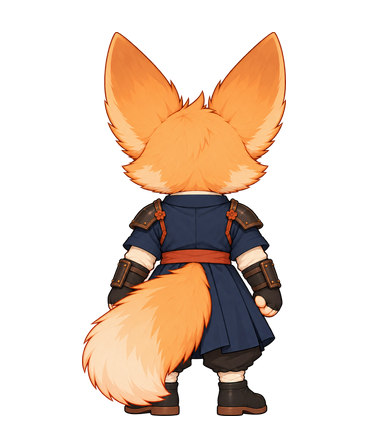
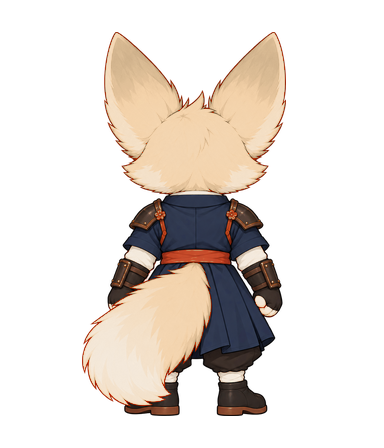
Cream fur, iron fan, and hero/golem sizes matched to the art
Camera view 624x300, hero hitbox 24x36, golem scale 0.34 with attack
range 210, hero swing box 52x44. Hero refs recolored to cream fur.

Claude-Session: https://claude.ai/code/session_017LxjDzct9tGqVeMxDGUx8y

diff --git a/docs/plan/HERO_SPEC.md b/docs/plan/HERO_SPEC.md
@@ -3,14 +3,15 @@
 2026-10-09 사용자 결정: 주인공은 **new-game 저장소에서 잡아 둔 사막여우 전투형 문관(철릭)**. 작업 방식은 "Claude가 아이디어·구조 설계 → ChatGPT가 이미지 제작".
 
 - 기준 그림: `docs/plan/hero_refs/side.png`, `front.png`, `back.png` (new-game `codex/fennec-idle-sample-v1` 브랜치 `game/fennec_idle/`, 각 384×448 투명 PNG, 발 기준점 약 (190, 416)). 당시 상태는 "시안 시험 승인"이고 최종 디자인 승인은 아님.
-- 잘못 가져왔던 game2의 크림색 판타지 관복 시트는 기준이 아니다(2026-10-09 사용자 정정).
+- 잘못 가져왔던 game2의 크림색 판타지 관복 시트는 기준이 아니다(2026-10-09 사용자 정정). 다만 **털색만** game2 여우의 크림색을 쓴다(같은 날 사용자 결정: 주황은 너무 쨍함). `hero_refs/`의 세 장은 털만 크림색으로 바꾼 것이고, 주황 원본은 new-game 브랜치에 그대로 있다.
+- **디자인은 확정이 아니다.** 사용자와 같이 맞춰 간다. 바꿀 때마다 이 문서와 비교 페이지를 갱신한다.
 - 비교 페이지(실제 화면 크기, 카메라·골렘 크기 바꿔 보기): https://claude.ai/artifact/5KBz3NkyGcp3mf3GaYupcd
 
 ## 1. 생김새 (기준 그림 그대로)
 
 | 부위 | 내용 |
 |---|---|
-| 털 | 주황, 가슴·주둥이·귀 안쪽·꼬리 끝은 크림 |
+| 털 | 크림(약 #ecd9bd), 가슴·주둥이·귀 안쪽·꼬리 끝은 더 밝은 미색. 외곽선은 따뜻한 갈색 |
 | 얼굴 | 갈색 눈(밝은 하이라이트), 짧은 목, 귀 제외 약 3등신 |
 | 귀 | 아주 큼. 가장 높은 실루엣 |
 | 옷 | 남색 철릭(앞섶 겹침), 크림색 깃, 녹슨 주홍 허리띠(매듭 끝이 늘어짐) |
@@ -18,16 +19,21 @@
 | 아래 | 검은 바지, 흰 행전, 검은 가죽 신 |
 | 꼬리 | 하나, 크고 풍성함. 뿌리는 허리띠 아래 등 중앙 |
 
-## 2. 크기 문제 (사용자 피드백: "둘 사이즈가 너무 차이 나고 안 보인다")
+## 2. 크기와 판정 (2026-10-09 적용)
 
-지금 수치(카메라 세로 384, 판정 20×28, 골렘 배율 0.42)로 720p 화면에 세우면 주인공은 귀까지 약 83px(화면 높이 11%), 골렘은 약 530px(73%)로 **6배 넘게** 차이 난다(비교 페이지 측정, 골렘 다리는 곧게 세운 근사).
+예전 수치(카메라 세로 384, 판정 20×28, 골렘 0.42)로는 720p 화면에서 주인공이 귀까지 약 83px, 골렘이 약 400px 이상이라 작고 차이가 컸다. 사용자가 비교 페이지에서 고른 조합을 실제 수치로 옮겼다.
 
-손볼 수 있는 손잡이 세 개:
-1. **카메라 당기기** (`camera_view_height` 384 → 300 등): 둘 다 커짐. 대신 점프 방에서 앞이 덜 보임.
-2. **골렘 줄이기** (`golem_scale` 0.42 → 0.34 등): 차이가 줄어듦. 골렘의 공격 판정 위치도 함께 줄어드니 골렘 수치 재확인 필요.
-3. **주인공 그림만 키우기** (판정은 그대로, 그림 1.3배): 손맛·방 설계 영향 없음. 맞는 범위보다 그림이 커 보이는 게 단점.
+| 항목 | 예전 | 지금 | 파일 |
+|---|---|---|---|
+| 카메라 보이는 범위 | 800×384 | 624×300 (1.28배 가까이) | `movement_tuning.json` |
+| 주인공 판정 | 20×28 | 24×36 | `movement_tuning.json` |
+| 골렘 배율 | 0.42 | 0.34 (키 약 170px, 5.3칸) | `golem_bash_tuning.json` |
+| 골렘 공격 시작 거리 | 260 | 210 (몸이 작아진 만큼) | `golem_bash_tuning.json` |
+| 주인공 공격 범위 | 44×36 | 52×44 (몸이 커진 만큼) | `golem_bash_tuning.json` |
 
-조합은 사용자가 비교 페이지에서 고르고, 정해지면 Claude가 수치로 옮긴다.
+- 판정은 **그림의 몸(정수리~발바닥)** 에 맞춘다. 귀와 꼬리는 맞지 않는 장식이다. 그림을 붙일 때 정수리를 판정 윗변에, 발바닥을 아랫변에 맞춘다(side.png 기준 정수리 y≈156, 발바닥 y=416, 몸 260px → 판정 36이면 배율 약 0.138).
+- 점프 높이·대시 거리·벽 점프는 그대로다. 판정이 8px 커져도 방 8개 모두 1칸짜리 세로 틈이 없어서 막히는 곳이 없고, 경로 검사도 그대로 통과한다.
+- 720p 화면 기준 주인공 약 128px(귀 포함), 골렘 약 408px, 키 차이 약 3.2배. 점프 방에서 가로로 보이는 범위는 약 21칸에서 17칸으로 준다.
 
 ## 3. 게임용 기능 (코드로 처리)
 
@@ -35,9 +41,16 @@
 - 귀·꼬리·철릭 자락·허리띠 매듭은 **코드가 흔든다**(속도 반대 방향으로 늘어짐). 그림은 정지 부품만 있으면 된다.
 - 대시 무적 표시는 몸 외곽 빛, 피격 깜빡임은 지금 그대로.
 
-## 4. 무기
+## 4. 무기 — 철부채 (2026-10-09 사용자 선택)
 
-지금 게임은 J로 근접 휘두르기(옆·위·아래 내려찍기). 기준 그림은 맨손이다. 기본값은 **짧은 환도**, 대안은 **철 부채** 또는 new-game처럼 **맨손 마력 충격**(칼 없이 손에서 문양·충격). 사용자 선택 대기, 정하기 전까지 환도.
+문관이 들고 다니는 쇠 부채(철선). 칼 대신 부채라서 문관 설정과 맞고, 접고 펴는 두 모양으로 동작을 나눌 수 있다.
+
+- **모양:** 검은 쇠 부챗살 10~12개, 사슬 없이 굵은 사북(고정 못)은 놋쇠색, 부채면은 짙은 남색 비단에 크림색 구름 문양 하나. 손잡이 끝에 허리띠와 같은 녹슨 주홍 술.
+- **J 옆 휘두르기:** 접은 부채로 가로 베기. 휘두르는 끝에 반쯤 펴진 부채꼴 잔상.
+- **위 휘두르기:** 머리 위로 활짝 펴며 반원을 그린다.
+- **아래 내려찍기(포고):** 접은 부채 끝으로 내려찍는다. 튕길 때 잠깐 펴서 받친다.
+- 판정은 지금 휘두르기 상자(52×44) 그대로. 그림이 판정을 따라가고, 판정이 그림을 따라가지 않는다.
+- 다른 후보(환도, 맨손 마력)는 보류.
 
 ## 5. 제작 방식
 
@@ -52,9 +65,9 @@ new-game·game2 모두 GPT로 방향·프레임을 한 장씩 뽑을 때 꼬리 
 첨부: `side.png`
 
 ```
-Create a cutout animation parts sheet of exactly this fennec fox character: same face, orange fur, cream chest and tail tip, huge ears, navy cheollik coat with cream collar, rust-orange sash, small black leather shoulder pads and bracers, black trousers, white leg wraps, black leather shoes. Same painterly style, outline, colors and scale as the attached image. Strict side view facing right.
+Create a cutout animation parts sheet of exactly this fennec fox character: same face, pale cream fur (around #ecd9bd) with lighter off-white chest, muzzle and tail tip, huge ears, navy cheollik coat with cream collar, rust-orange sash, small black leather shoulder pads and bracers, black trousers, white leg wraps, black leather shoes. Same painterly style, outline, colors and scale as the attached image. Strict side view facing right.
 Every part separated with empty space around it, transparent background, no overlaps, no shadows, no text except small gray part numbers.
-Parts: 1 head without ears (eye open), 2 near ear, 3 far ear (slightly darker), 4 torso with coat top, collar and sash (no arms, no skirt flaps), 5 coat skirt hanging straight as one piece, 6 sash knot tails, 7 near upper arm with shoulder pad, 8 near forearm with bracer, 9 near paw (open), 10 far upper arm, 11 far forearm, 12 far paw, 13 near thigh, 14 near shin with leg wrap and shoe, 15 far thigh, 16 far shin with shoe, 17 tail as one piece pointing straight back, 18 short Korean sword (hwando) horizontal.
+Parts: 1 head without ears (eye open), 2 near ear, 3 far ear (slightly darker), 4 torso with coat top, collar and sash (no arms, no skirt flaps), 5 coat skirt hanging straight as one piece, 6 sash knot tails, 7 near upper arm with shoulder pad, 8 near forearm with bracer, 9 near paw (open), 10 far upper arm, 11 far forearm, 12 far paw, 13 near thigh, 14 near shin with leg wrap and shoe, 15 far thigh, 16 far shin with shoe, 17 tail as one piece pointing straight back, 18 closed Korean iron war fan (cheolseon) horizontal: black iron ribs, brass pivot rivet, small rust-orange tassel at the handle end, 19 the same iron fan fully opened as a half circle: dark navy silk face with one cream cloud motif, black iron ribs.
 Limb parts need rounded joint ends so they can rotate at the joint. Keep one consistent pixel scale across all parts.
 ```
 
@@ -62,6 +75,6 @@ Limb parts need rounded joint ends so they can rotate at the joint. Keep one con
 
 ## 6. 사람이 정할 것
 
-- 크기 조합 (비교 페이지): 카메라 / 골렘 크기 / 주인공 그림 배율
-- 무기: 환도(기본) / 철 부채 / 맨손 마력
+- 크림색 털 톤이 괜찮은지 (더 노랗게, 더 하얗게)
+- 철부채 모양(색, 문양, 술)
 - 임시로 `side.png`를 먼저 게임에 붙일지(추천)

diff --git a/HANDOFF.md b/HANDOFF.md
@@ -25,7 +25,7 @@
 - 한 판(`toys/run/`, 실행 `RunOneRun.command`/`RunOneRun.cmd`): 2026-10-09 사용자 결정 "한 판으로 합치기"로 Claude 구현. `run.json`의 점프 방(기본 01·05·06)을 지나면 골렘 방, 골렘 사망은 골렘부터 재시작. 이동 수치는 사용자 결정으로 점프맵·보스방 중간값 하나로 통일(`movement_tuning.json` 변경, 대시 후 속도 65%), 그에 맞춰 5·7번 방 수정. `docs/RUN_REPORT.md`.
 - 골렘 튕기기 장난감(`toys/golem_bash/`, 실행 `RunGolemBash.command`/`RunGolemBash.cmd`): 2026-10-09 Claude 구현, 같은 날 사용자 1차 플레이 피드백 7개 반영(약점을 어깨 위 결정으로 옮김·자동 조준·상황 안내, 피격 무적 1.2초와 깜빡임, 몸 닿음 0.25초 유예, 대시 무적, 쿵쿵 걷기, 앞으로 쓰러지는 무릎 자세, 멈칫·파편·숫자). 약점은 튕긴 직후 2초와 쓰러졌을 때만 열림. 자동 검사 통과, 무적 OFF 봇은 여전히 승리 못 함, 2차 판정에서 이동이 보스전엔 과하다고 해서 보스전 전용 이동 수치(느리고 무겁게, 공중 대시 2회 유지, 대시 후 속도 30%)와 포고 320, 팔 흔들림 축소. 3차 사람 판정 전. `docs/GOLEM_BASH_REPORT.md`.
 - 효과음(2026-10-09, Claude): 자체 합성 25개를 한 판 전체(점프 방·골렘)에 연결. 음량 조절은 `autoload/Sfx.gd`의 `MIX`. 사람 귀 판정 전. `docs/SFX_REPORT.md`.
-- 주인공(2026-10-09 사용자 결정): new-game(`codex/fennec-idle-sample-v1`)의 사막여우 전투형 문관(주황 털, 남색 철릭). Claude가 설계, ChatGPT가 이미지 제작, 골렘처럼 부품(컷아웃) 리그. 사용자 지적: 골렘 대비 너무 작다 → 카메라·골렘 크기·그림 배율 조합 선택 대기. `docs/plan/HERO_SPEC.md`.
+- 주인공(2026-10-09 사용자 결정): new-game(`codex/fennec-idle-sample-v1`)의 사막여우 전투형 문관(남색 철릭), 털만 game2 여우의 크림색으로 바꿈. 디자인은 확정 아님, 사용자와 같이 맞춰 감. Claude가 설계, ChatGPT가 이미지 제작, 골렘처럼 부품(컷아웃) 리그. 크기 적용됨: 카메라 624×300, 판정 24×36(그림의 몸에 맞춤), 골렘 0.34, 골렘 공격 시작 210, 주인공 공격 52×44. 무기는 철부채. `docs/plan/HERO_SPEC.md`.
 - 스토리·UI·아트 확장은 보류.
 
 - 2026-10-09 최신 수정: 공중 두 번째 대시는 새 입력 방향으로 즉시 발동. 방향키와 Shift 입력 순서 차이를 0.06초 방향 입력 유예로 처리. 사용자 실플레이에서 작동 확인 후 tt 업로드 요청. 입력 주입 225검사, 기존 회귀 15개 모음 통과. 상세: `docs/MOVEMENT_INPUT_AUDIT.md`.
@@ -35,7 +35,7 @@
 1. 완료(2026-10-09): 새 방 5~8 사용자 플레이 판정 "나름 재밌었다". 5·8 굴뚝(벽 점프 없이 통과)·8 탄환 방(탄환 없이 통과) 우회는 남아 있음. 사용자가 불편을 말하면 Claude가 재설계하고 Codex가 경로 테스트를 고친다.
 2. 사용자: 골렘 튕기기 장난감 2차 플레이 판정(피드백 반영본, PR #2). "시키지 않았는데 다시 붙고 싶은가", 기존 골렘전과 비교. 약점 열림 규칙과 난이도(창 길이) 의견. 구현 완료(Claude), `docs/GOLEM_BASH_REPORT.md`.
 3. 사용자: 효과음 귀 판정(너무 큰/작은/거슬리는 소리, 빠진 순간). 말하면 Claude가 `MIX` 숫자나 `make_sfx.py` 합성식을 고친다.
-4. 주인공: 크기 조합·무기 선택 → `side.png` 임시 부착으로 플레이 확인 → GPT 부품 시트(HERO_SPEC 프롬프트 B) → 리그.
+4. 주인공: 새 크기로 사용자 플레이 확인 → `side.png` 임시 부착(정수리=판정 윗변) → GPT 부품 시트(HERO_SPEC 프롬프트 B, 철부채 포함) → 리그.
 5. 둘 다 통과하면: 움직임 + 보스를 묶은 짧은 구간(방 몇 개 + 보스 하나)으로 다음 관문 설계.
 
 ## 문서 지도

diff --git a/docs/plan/DIRECTION.md b/docs/plan/DIRECTION.md
@@ -61,3 +61,4 @@
 - 2026-10-09: 효과음 1차 판정 "깡깡·뿅뿅은 안 어울림". 전자음·금속성 울림 금지, 둔탁한 타격·돌 부스러기·바람 위주로.
 - 2026-10-09: 주인공 확정 — 사막여우 전투형 문관(game2 승인 8방향 시트의 얼굴·색 유지), 옷은 철릭으로 교체. 제작은 Claude 설계 → ChatGPT 이미지. GPT 프레임별 애니메이션은 game2에서 일관성 문제로 반복 기각됐으므로 부품(컷아웃)+코드 흔들림으로 간다.
 - 2026-10-09: 정정 — 주인공 기준은 game2 크림색 관복 시트가 아니라 new-game `codex/fennec-idle-sample-v1`의 주황 털·남색 철릭 사막여우. 사용자: 골렘과 크기 차이가 너무 크고 주인공이 안 보인다.
+- 2026-10-09: 털색은 처음 여우(game2)의 크림색으로(주황은 너무 쨍함). 디자인은 확정 아니고 같이 맞춰 감. 크기는 카메라 1.3배·골렘 0.34·판정을 그림 몸에 맞춘 24×36으로 적용. 무기는 철부채.
